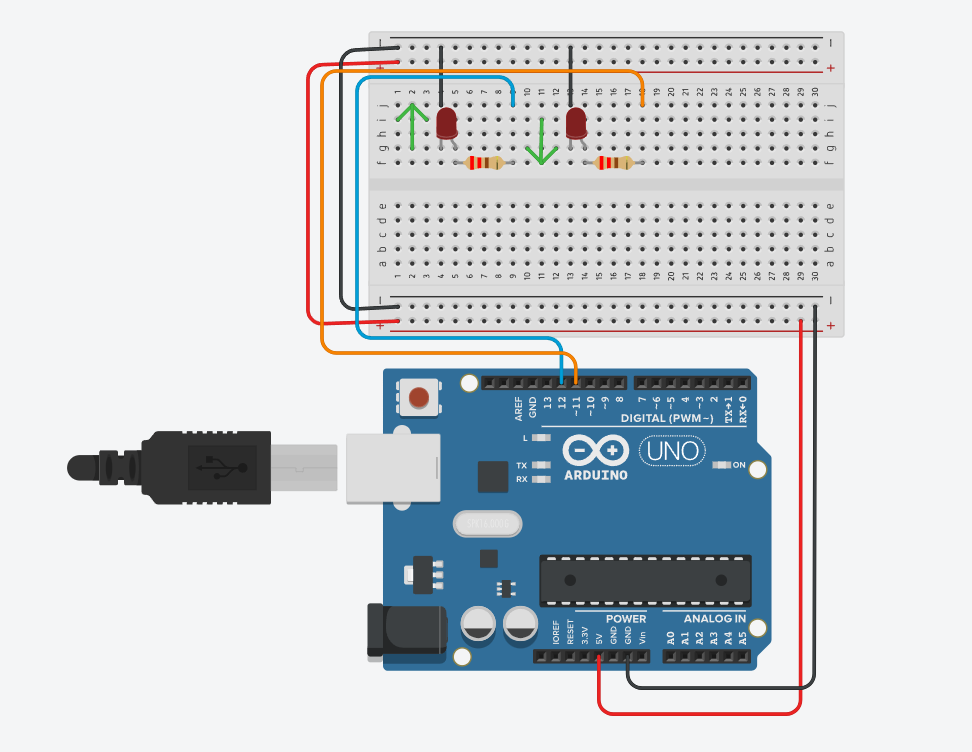
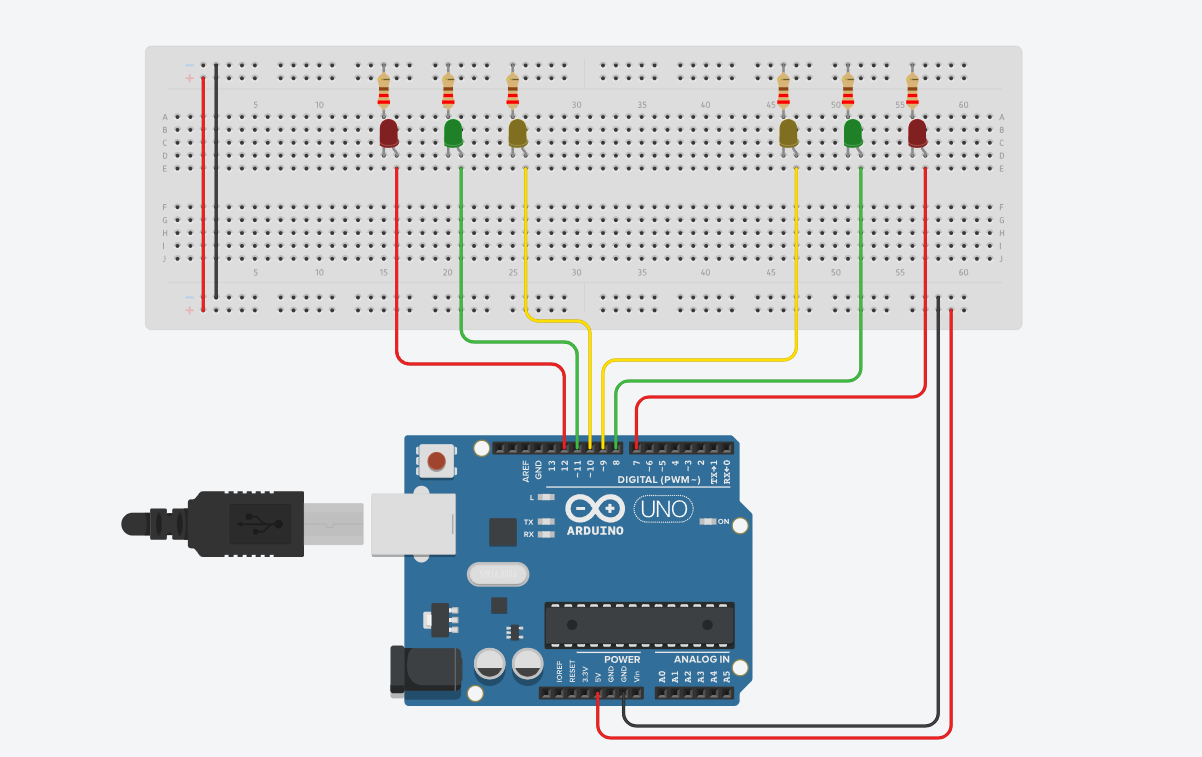
updated story 3

diff --git a/README.md b/README.md
@@ -18,11 +18,7 @@ Found this story quite easy just placing components and a bit of simple coding.
 
 
 
-Made a few stupid mistakes due to me using the top half of the breadboard but other than that pretty simple.
-
-
-
-
+Didn't know about the existence of The Arduino IDE and Programming section so had to completely redo this story but once I did know about it was pretty simple.
 
 
 
